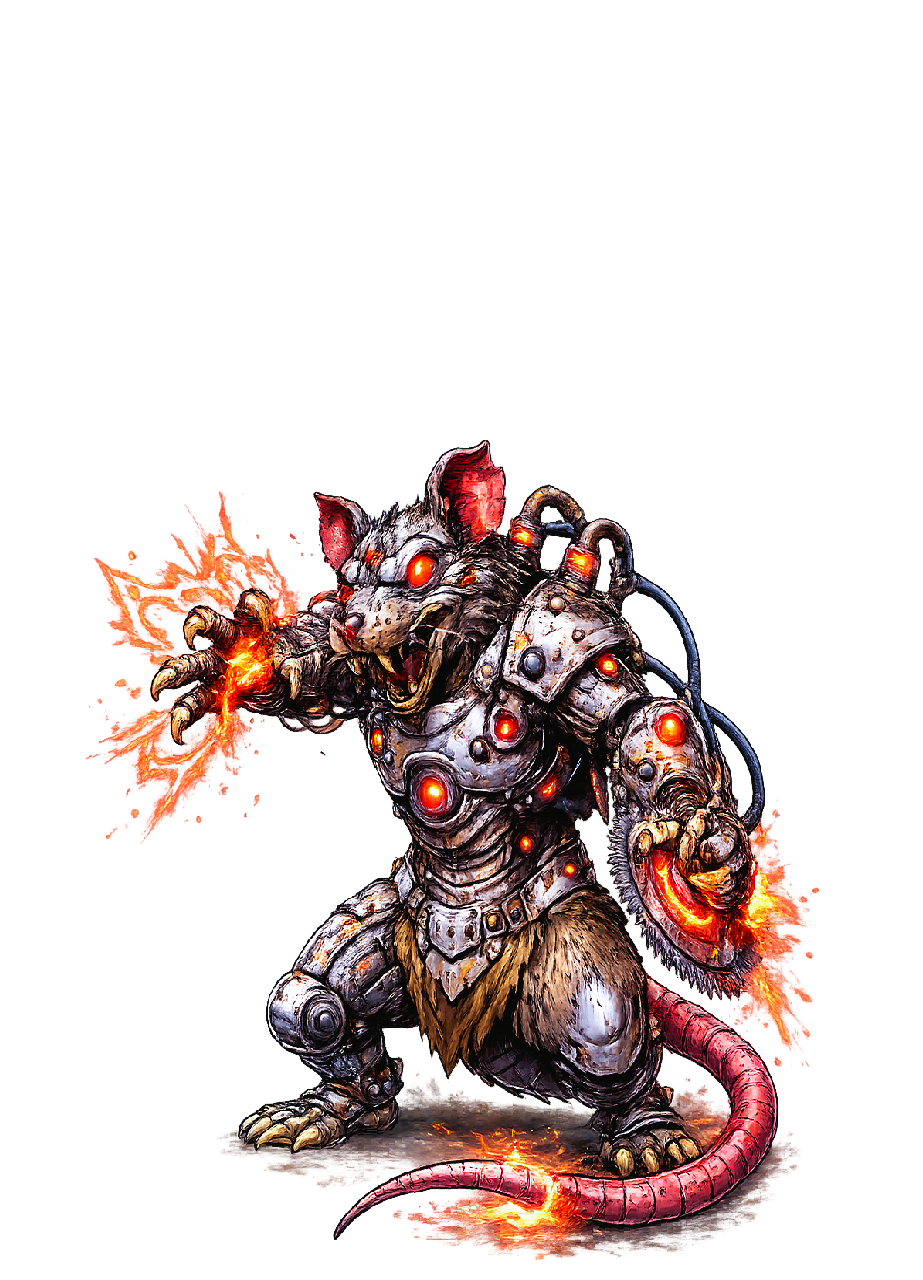
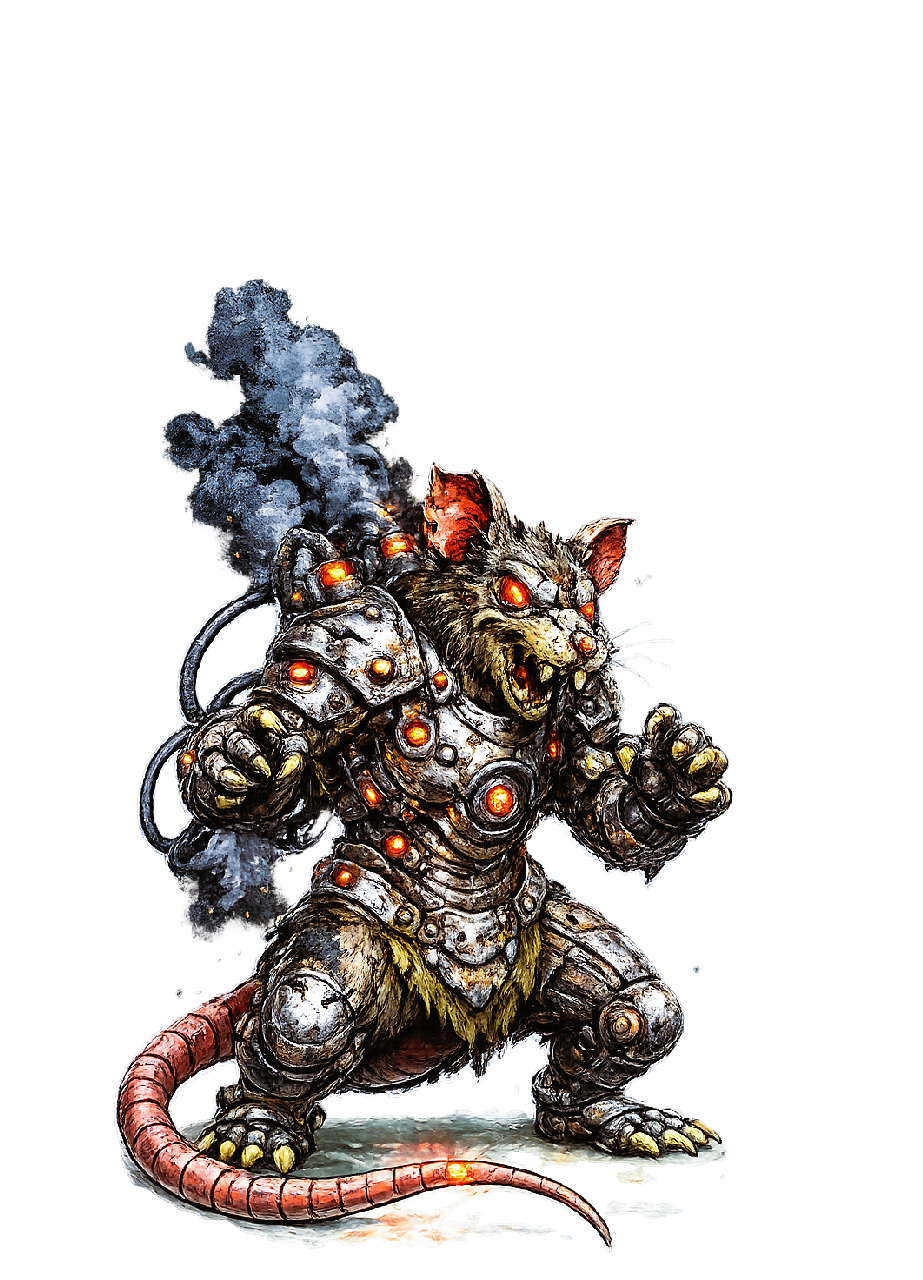
TCG Base Finished

diff --git a/client/src/scenes/DuelScene.ts b/client/src/scenes/DuelScene.ts
@@ -31,17 +31,24 @@ import type { RunData } from './EvergladesScene'; // run-progress data passed in
 
 import backgroundImg from '../assets/backgrounds/everglades.jpg'; // duel background image
 
-import christianIdle from '../assets/characters/christian/Christian_v4_resized.png'; // player idle sprite
-import christianAttack1 from '../assets/characters/christian/Christian_attack-1.png'; // player attack animation frame 1
-import christianAttack2 from '../assets/characters/christian/Christian_attack-2.png'; // player attack animation frame 2
-import christianDamage1 from '../assets/characters/christian/Christian_damage-1.png'; // player hurt sprite 1
-import christianDamage2 from '../assets/characters/christian/Christian_damage-2.png'; // player hurt sprite 2
+import christianIdle from '../assets/characters/christian/Christian_v4_resized.png'; // Christian idle sprite
+import christianAttack1 from '../assets/characters/christian/Christian_attack-1.png'; // Christian attack animation frame 1
+import christianAttack2 from '../assets/characters/christian/Christian_attack-2.png'; // Christian attack animation frame 2
+import christianDamage1 from '../assets/characters/christian/Christian_damage-1.png'; // Christian hurt sprite 1
+import christianDamage2 from '../assets/characters/christian/Christian_damage-2.png'; // Christian hurt sprite 2
 
-import enemyDefault from '../assets/characters/default/enemy-gator.png'; // enemy idle sprite
-import enemyAttack1 from '../assets/characters/default/attack-1.png'; // enemy attack animation frame 1
-import enemyAttack2 from '../assets/characters/default/attack-2.png'; // enemy attack animation frame 2
-import enemyHurt1 from '../assets/characters/default/hurt-1.png'; // enemy hurt sprite 1
-import enemyHurt2 from '../assets/characters/default/hurt-2.png'; // enemy hurt sprite 2
+// import enemyDefault from '../assets/characters/default/enemy-gator.png'; // enemy idle sprite
+// import enemyAttack1 from '../assets/characters/default/attack-1.png'; // enemy attack animation frame 1
+// import enemyAttack2 from '../assets/characters/default/attack-2.png'; // enemy attack animation frame 2
+// import enemyHurt1 from '../assets/characters/default/hurt-1.png'; // enemy hurt sprite 1
+// import enemyHurt2 from '../assets/characters/default/hurt-2.png'; // enemy hurt sprite 2
+
+import skawlIdle from '../assets/characters/skawl/Skawl_resized.png'; // Skawl idle sprite
+import skawlAttack1 from '../assets/characters/skawl/Skawl_attack-1.png'; // Skawl attack animation frame 1
+import skawlAttack2 from '../assets/characters/skawl/Skawl_attack-2.png'; // Skawl attack animation frame 2
+import skawlDamage1 from '../assets/characters/skawl/Skawl_damage-1.png'; // Skawl hurt sprite 1
+import skawlDamage2 from '../assets/characters/skawl/Skawl_damage-2.png'; // Skawl hurt sprite 2
+import skawlDefeated from '../assets/characters/skawl/Skawl_defeated.png'; // Skawl defeated sprite
 
 export class DuelScene extends Phaser.Scene {
   private readonly MAX_HP = 100; // shared HP cap for both combatants
@@ -54,10 +61,10 @@ export class DuelScene extends Phaser.Scene {
   private readonly PLAYER_ATTACK_SCALE = 0.33; // player attack sprite scale
   private readonly PLAYER_HURT_SCALE = 0.33; // player hurt sprite scale
 
-  private readonly ENEMY_IDLE_SCALE = 0.38; // enemy idle sprite scale
-  private readonly ENEMY_ATTACK_SCALE = 0.38; // enemy attack sprite scale
-  private readonly ENEMY_HURT1_SCALE = 0.38; // enemy hurt sprite scale for mid HP
-  private readonly ENEMY_HURT2_SCALE = 0.38; // enemy hurt sprite scale for low HP
+  private readonly ENEMY_IDLE_SCALE = 0.34; // enemy idle sprite scale
+  private readonly ENEMY_ATTACK_SCALE = 0.36; // enemy attack sprite scale
+  private readonly ENEMY_HURT1_SCALE = 0.35; // enemy hurt sprite scale for mid HP
+  private readonly ENEMY_HURT2_SCALE = 0.35; // enemy hurt sprite scale for low HP
 
   private playerHp = this.MAX_HP; // player current HP
   private enemyHp = this.MAX_HP; // enemy current HP
@@ -132,16 +139,22 @@ export class DuelScene extends Phaser.Scene {
 
   preload() {
     this.load.image('background', backgroundImg); // load duel background
-    this.load.image('christian-idle', christianIdle); // load player idle sprite
-    this.load.image('christian-attack-1', christianAttack1); // load player attack sprite 1
-    this.load.image('christian-attack-2', christianAttack2); // load player attack sprite 2
-    this.load.image('christian-damage-1', christianDamage1); // load player hurt sprite 1
-    this.load.image('christian-damage-2', christianDamage2); // load player hurt sprite 2
-    this.load.image('enemy-default',  enemyDefault); // load enemy idle sprite
-    this.load.image('enemy-attack-1', enemyAttack1); // load enemy attack sprite 1
-    this.load.image('enemy-attack-2', enemyAttack2); // load enemy attack sprite 2
-    this.load.image('enemy-hurt-1',   enemyHurt1); // load enemy hurt sprite 1
-    this.load.image('enemy-hurt-2',   enemyHurt2); // load enemy hurt sprite 2
+    this.load.image('christian-idle', christianIdle); // load Christian idle sprite
+    this.load.image('christian-attack-1', christianAttack1); // load Christian attack sprite 1
+    this.load.image('christian-attack-2', christianAttack2); // load Christian attack sprite 2
+    this.load.image('christian-damage-1', christianDamage1); // load Christian hurt sprite 1
+    this.load.image('christian-damage-2', christianDamage2); // load Christian hurt sprite 2
+    // this.load.image('enemy-default',  enemyDefault); // load enemy idle sprite
+    // this.load.image('enemy-attack-1', enemyAttack1); // load enemy attack sprite 1
+    // this.load.image('enemy-attack-2', enemyAttack2); // load enemy attack sprite 2
+    // this.load.image('enemy-hurt-1',   enemyHurt1); // load enemy hurt sprite 1
+    // this.load.image('enemy-hurt-2',   enemyHurt2); // load enemy hurt sprite 2
+    this.load.image('enemy-default', skawlIdle); // load Skawl idle sprite
+    this.load.image('enemy-attack-1', skawlAttack1); // load Skawl attack sprite 1
+    this.load.image('enemy-attack-2', skawlAttack2); // load Skawl attack sprite 2
+    this.load.image('enemy-hurt-1', skawlDamage1); // load Skawl hurt sprite 1
+    this.load.image('enemy-hurt-2', skawlDamage2); // load Skawl hurt sprite 2
+    this.load.image('enemy-defeated', skawlDefeated); // load Skawl defeated sprite
   }
 
   create() {
@@ -150,11 +163,11 @@ export class DuelScene extends Phaser.Scene {
 
     this.resetDuelState(); // clear all duel state before building the scene
 
-    this.add.image(centerX, height / 2, 'background'); // place the background in the center
+    this.add.image(centerX, height / 2, 'background').setDepth(0); // place the background in the center
 
+    this.createCharacters(); // place player and enemy sprites
     this.drawHudPanels(); // draw the dark HUD containers behind the UI
     this.createHud(); // build the text bars and labels
-    this.createCharacters(); // place player and enemy sprites
     this.setupDecks(); // create and populate decks, hands, and discard pile
     this.renderTableCard(); // render the initial table card
     this.renderDiscardTopCard(); // render the top discard card
@@ -202,6 +215,7 @@ export class DuelScene extends Phaser.Scene {
     const { width, height } = this.cameras.main; // use camera size so UI scales with the scene
     const centerX = width / 2; // center point for symmetric panels
     const panels = this.add.graphics(); // graphics object used to draw HUD boxes
+    // panels.setDepth(20); // ensure panels are on top of the sprites but behind the text and cards
     panels.fillStyle(0x000000, 0.72); // translucent black for readability
     panels.fillRoundedRect(25, 20, 315, 195, 18); // left player HUD panel
     panels.fillRoundedRect(width - 340, 20, 315, 195, 18); // right enemy HUD panel
@@ -349,10 +363,12 @@ export class DuelScene extends Phaser.Scene {
     this.playerShadow = this.add.graphics(); // shadow under the player sprite
     this.playerShadow.fillStyle(0x000000, 0.3); // subtle shadow opacity
     this.playerShadow.fillEllipse(185, 442, 210, 36); // player shadow shape
+    // this.playerShadow.setDepth(5); // ensure shadows are behind the characters but above the background
 
     this.enemyShadow = this.add.graphics(); // shadow under the enemy sprite
     this.enemyShadow.fillStyle(0x000000, 0.3); // subtle shadow opacity
     this.enemyShadow.fillEllipse(1010, 430, 185, 32); // enemy shadow shape
+    // this.enemyShadow.setDepth(5); // ensure shadows are behind the characters but above the background
 
     this.playerCharacter = this.add.image(185, centerY + 5, 'christian-idle').setScale(this.PLAYER_IDLE_SCALE); // player sprite on the left
     this.enemyCharacter = this.add.image(1010, centerY, this.currentEnemyImage).setScale(this.ENEMY_IDLE_SCALE).setFlipX(true); // flipped enemy sprite on the right
@@ -869,15 +885,17 @@ export class DuelScene extends Phaser.Scene {
 
   private animateEnemyAttack() {
     const attackImage = Math.random() < 0.5 ? 'enemy-attack-1' : 'enemy-attack-2'; // randomize enemy attack pose
-    this.enemyCharacter.setTexture(attackImage).setScale(0.46).setFlipX(true).setY(327); // switch to attack pose and keep flip
+    this.enemyCharacter.setTexture(attackImage).setScale(this.ENEMY_ATTACK_SCALE).setFlipX(true).setY(327); // switch to attack pose and keep flip
   }
 
   private updatePlayerPose() {
-    if (this.playerHp <= 25) { this.playerCharacter.setTexture('christian-damage-2').setScale(this.PLAYER_HURT_SCALE).setY(335); // critical HP pose
+    if (this.playerHp <= 25) { 
+      this.playerCharacter.setTexture('christian-damage-2').setScale(this.PLAYER_HURT_SCALE).setY(335); // critical HP pose
       return; 
     }
 
-    if (this.playerHp <= 50) { this.playerCharacter.setTexture('christian-damage-1').setScale(this.PLAYER_HURT_SCALE).setY(335); // wounded pose
+    if (this.playerHp <= 50) { 
+      this.playerCharacter.setTexture('christian-damage-1').setScale(this.PLAYER_HURT_SCALE).setY(335); // wounded pose
       return; 
     }
 
@@ -885,11 +903,21 @@ export class DuelScene extends Phaser.Scene {
   }
 
   private updateEnemyPose() {
-    if (this.enemyHp <= 25) { this.currentEnemyImage = 'enemy-hurt-2'; this.enemyCharacter.setTexture(this.currentEnemyImage).setScale(0.42).setFlipX(true).setY(327); // critical enemy pose
+    if (this.enemyHp <= 0) { 
+      this.currentEnemyImage = 'enemy-defeated'; 
+      this.enemyCharacter.setTexture(this.currentEnemyImage).setScale(this.ENEMY_IDLE_SCALE).setFlipX(true).setY(340); // defeated pose with slight position adjustment
+      return; 
+    } // defeated pose
+
+    if (this.enemyHp <= 25) { 
+      this.currentEnemyImage = 'enemy-hurt-2'; 
+      this.enemyCharacter.setTexture(this.currentEnemyImage).setScale(this.ENEMY_HURT2_SCALE).setFlipX(true).setY(327); // critical enemy pose
       return; 
     }
 
-    if (this.enemyHp <= 50) { this.currentEnemyImage = 'enemy-hurt-1'; this.enemyCharacter.setTexture(this.currentEnemyImage).setScale(0.42).setFlipX(true).setY(327); // wounded enemy pose
+    if (this.enemyHp <= 50) { 
+      this.currentEnemyImage = 'enemy-hurt-1'; 
+      this.enemyCharacter.setTexture(this.currentEnemyImage).setScale(this.ENEMY_HURT1_SCALE).setFlipX(true).setY(327); // wounded enemy pose
       return; 
     }
 
@@ -913,8 +941,22 @@ export class DuelScene extends Phaser.Scene {
 
   private checkCombatEnded(): boolean {
     this.refreshHud(); // make sure final values are visible before transition
-    if (this.playerHp <= 0) { this.gameOver(); return true; } // player lost
-    if (this.enemyHp <= 0) { this.levelsWon += 1; this.levelText.setText(`Level ${this.levelsWon + 1}`); this.showVictoryCutscene(); return true; } // enemy lost
+    if (this.playerHp <= 0) { 
+      this.gameOver(); 
+      return true; 
+    } // player lost
+
+    if (this.enemyHp <= 0) { 
+      this.updateEnemyPose(); // show the defeated enemy pose before transitioning
+      this.levelsWon += 1; 
+      this.levelText.setText(`Level ${this.levelsWon + 1}`); 
+      this.time.delayedCall(500, () => { // brief pause to let the defeated pose register before showing the victory screen
+        this.showVictoryCutscene(); 
+      });
+
+      return true; 
+    } // enemy lost
+
     return false; // combat continues
   }
 
